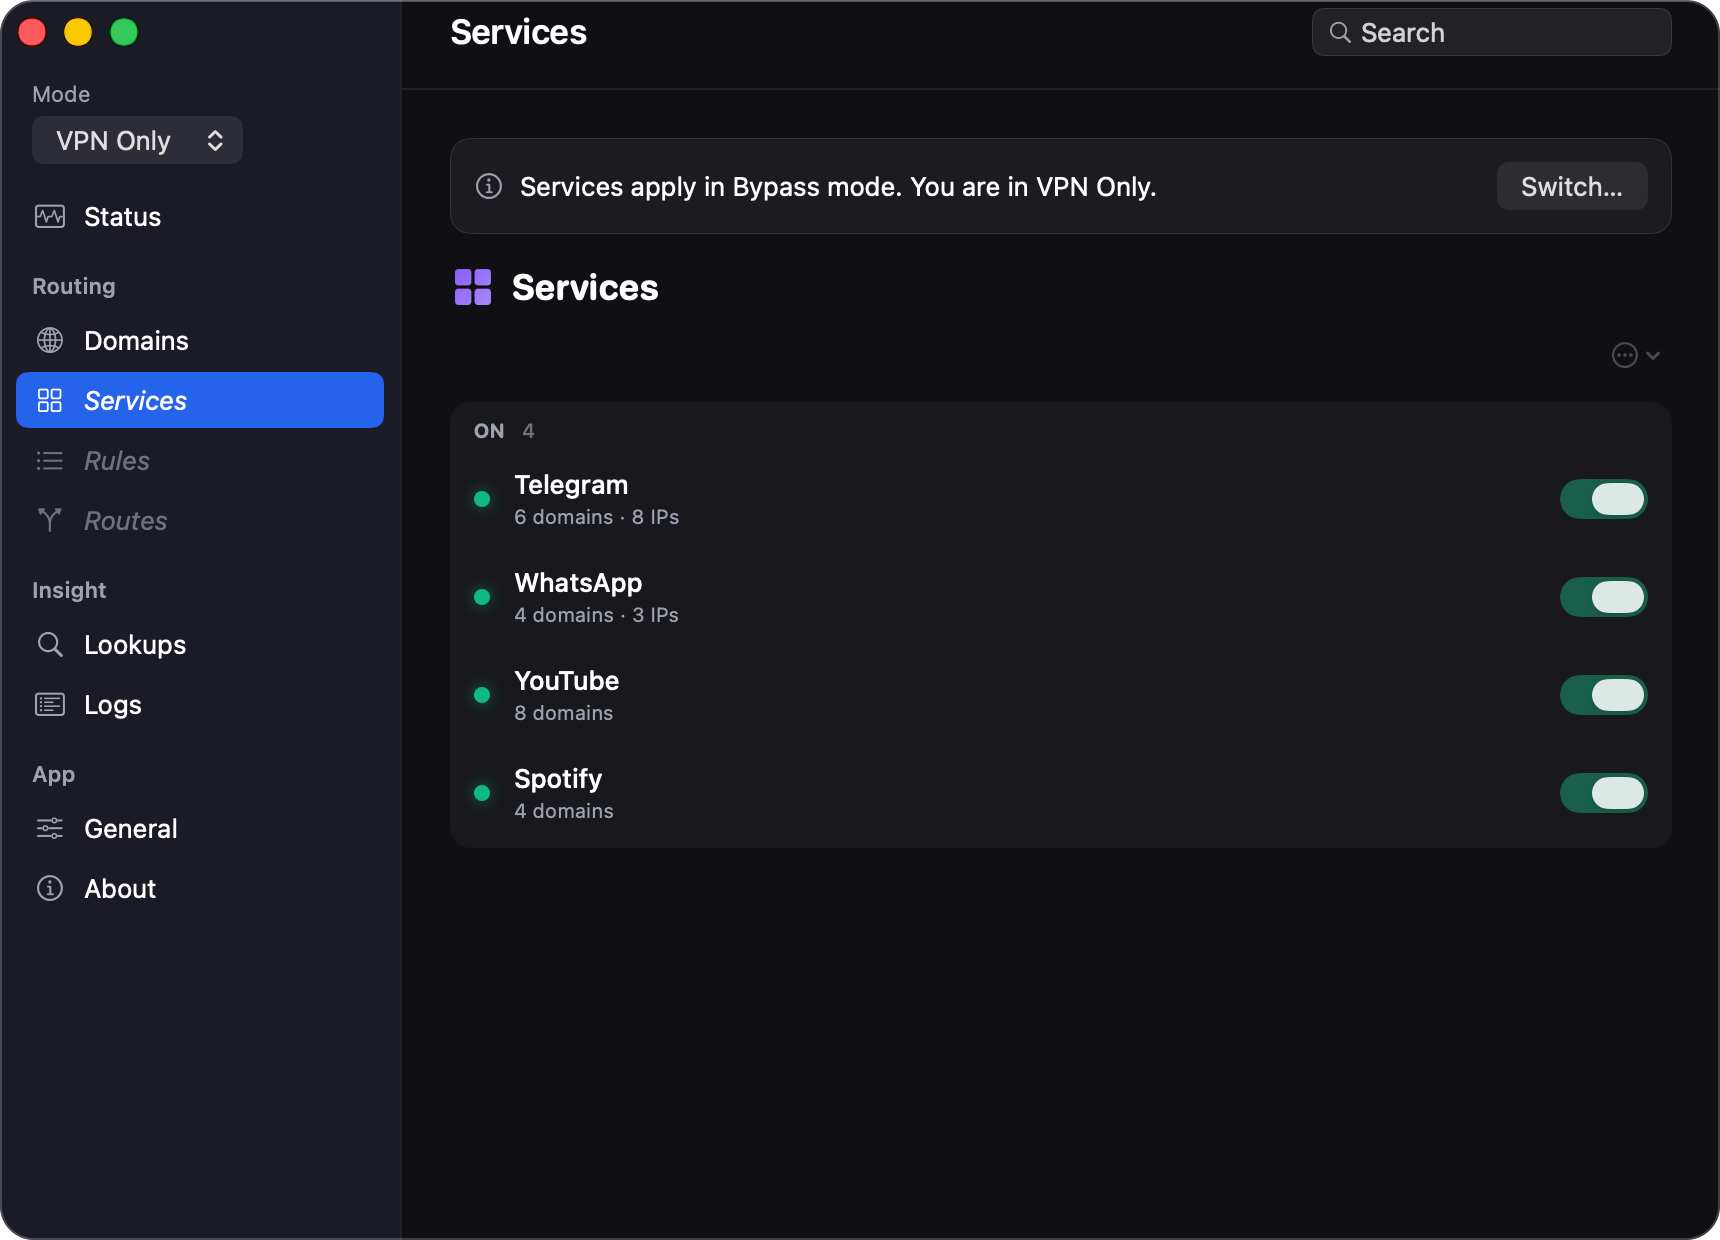
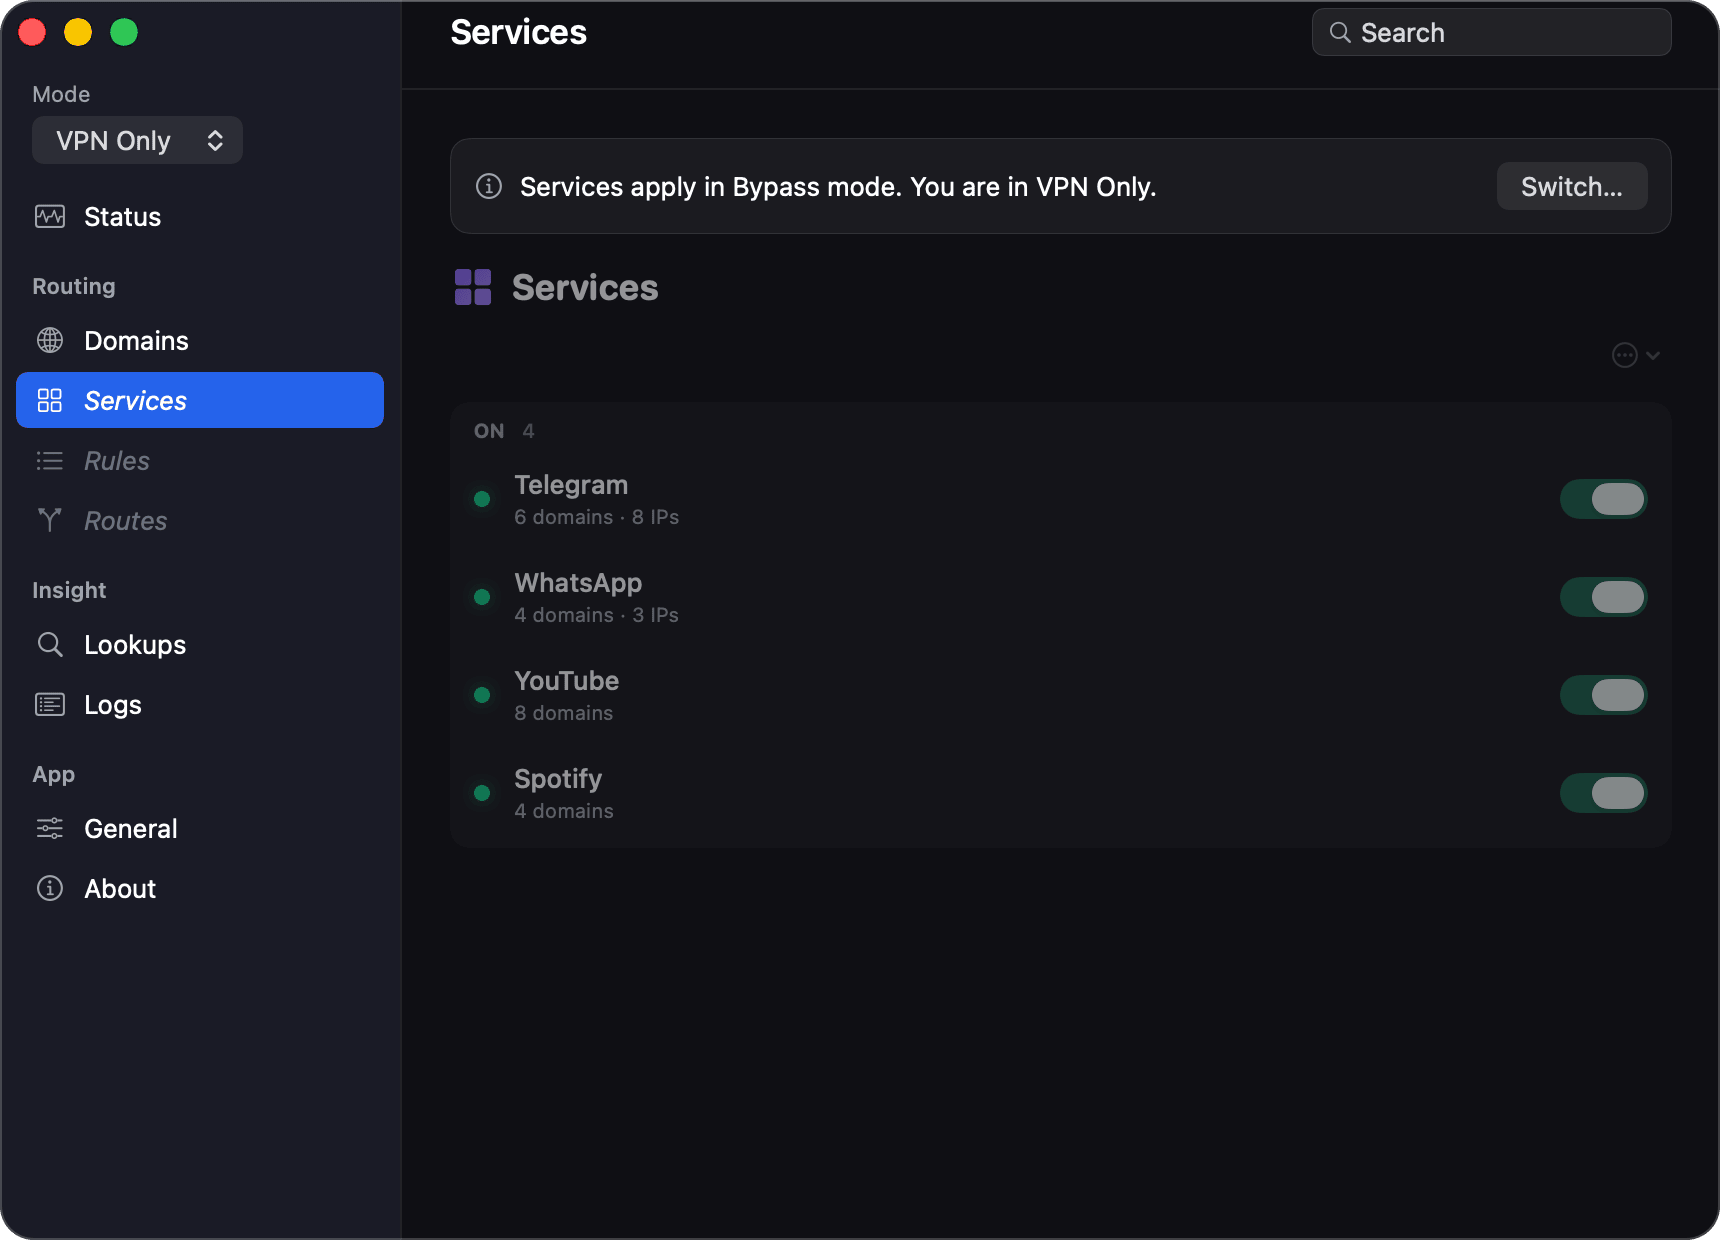
fix(settings): dim a read-only page and refuse rule drops on it, so it cannot look or act editable
A disabled page kept its toggles in full colour, and dropDestination still ran under .disabled, so dragging a rule on the read-only Rules page in Bypass saved and reapplied. The page is now dimmed and RulesTab refuses the drop when not enabled.

diff --git a/Sources/VPNBypassCore/RulesTab.swift b/Sources/VPNBypassCore/RulesTab.swift
@@ -541,6 +541,8 @@ struct RulesTab: View {
     }
     /// The title bar search (⌘F), which the window owns.
     @Environment(\.settingsSearch) private var searchText
+    /// False on the read-only page the shell shows in another mode.
+    @Environment(\.isEnabled) private var isEnabled
     /// The rules the search leaves, in order; every rule with no search. Dragging still moves by
     /// id, so a filtered list reorders the full one.
     private var shownRules: [Rule] {
@@ -694,6 +696,8 @@ struct RulesTab: View {
                     )
                     .draggable(rule.id.uuidString)
                     .dropDestination(for: String.self) { items, _ in
+                        // A read-only page (another mode) takes no drop: `.disabled` does not stop one.
+                        guard isEnabled else { return false }
                         guard let draggedIdString = items.first, let draggedId = UUID(uuidString: draggedIdString) else { return false }
                         moveRule(draggedId: draggedId, to: rule.id)
                         return true

diff --git a/Sources/VPNBypassCore/SettingsView.swift b/Sources/VPNBypassCore/SettingsView.swift
@@ -148,8 +148,11 @@ struct SettingsView: View {
                             modeSwitch.pickedMode = RoutingModeCopy.sheetSelection(forPick: target, current: mode)
                         }
                     }
+                    // Dimmed as well as disabled: the page's own toggles keep their colours
+                    // when disabled, so they would still look live.
                     page
                         .disabled(SettingsSidebar.isReadOnly(selectedTab, in: mode))
+                        .opacity(SettingsSidebar.isReadOnly(selectedTab, in: mode) ? 0.55 : 1)
                         .environment(\.settingsSearch, searchText)
                 }
                 .padding(Theme.Space.page)
